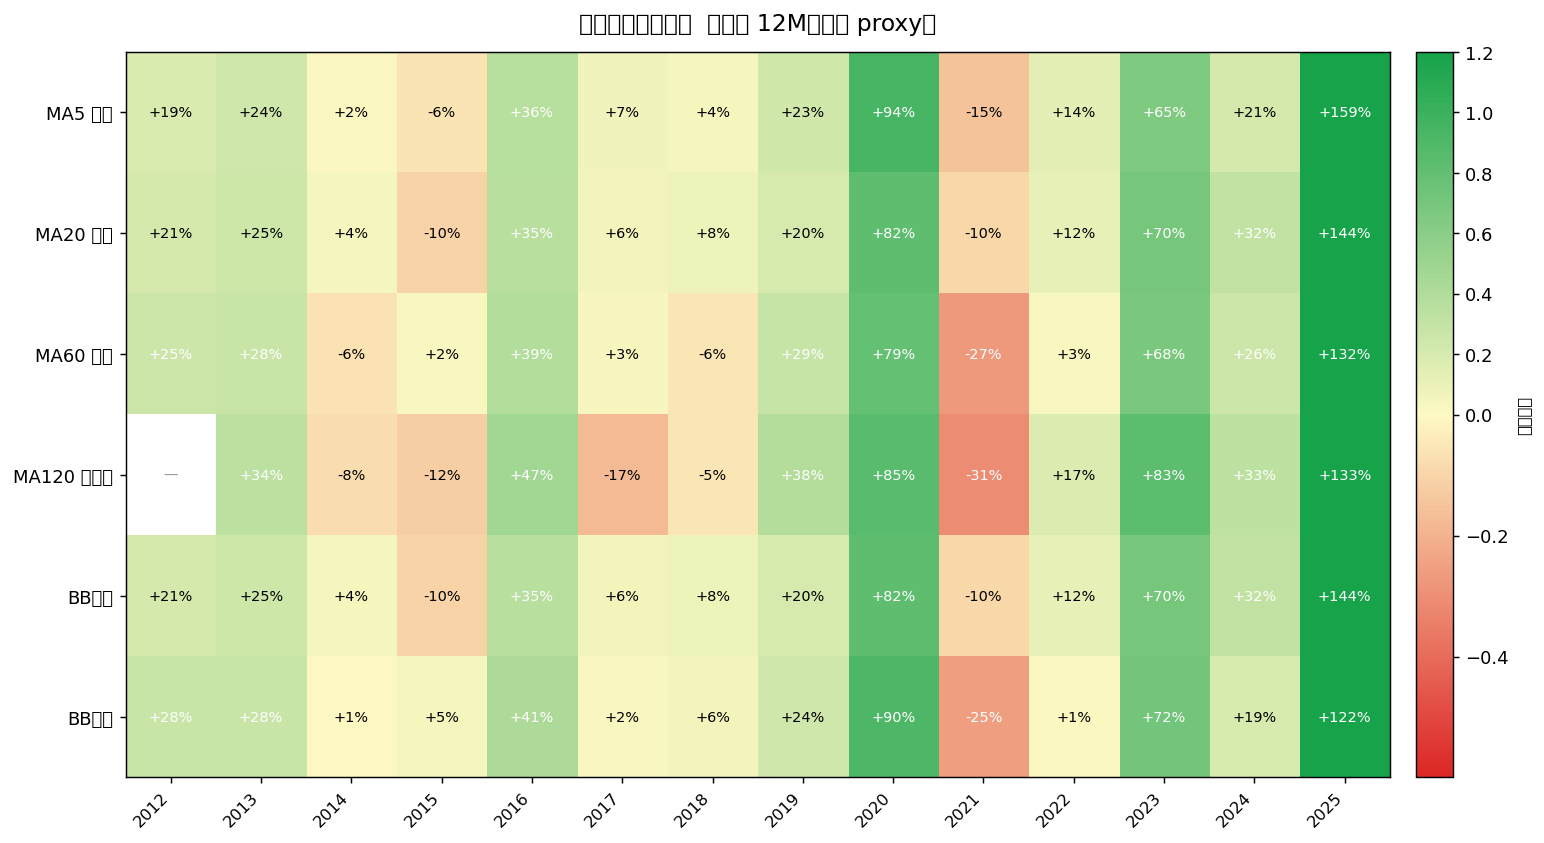
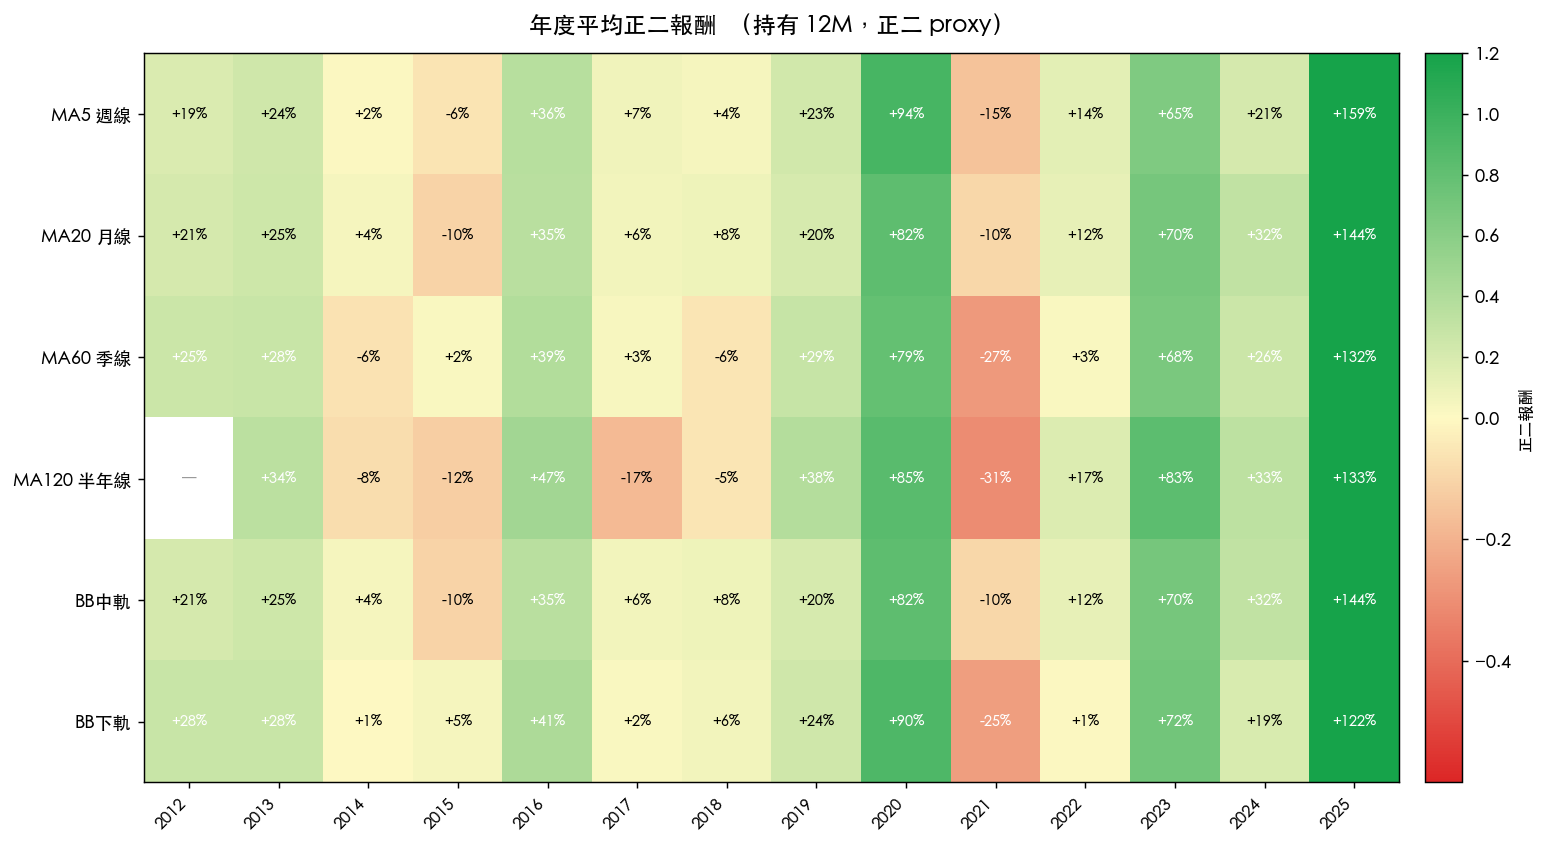
fix: 熱力圖中文亂碼 — 加入 Heiti TC 字體設定 + 更新 base64
- analyze_ma_bounce.py：加 matplotlib.rcParams font.family = Heiti TC
- 重新跑腳本，Y 軸 MA5週線/MA20月線/BB中軌/BB下軌 正常顯示
- 更新 index.html 內嵌 base64（報酬 + MDD 兩張熱力圖）
- 同步補全上一批 commit 的 index.html 網站地圖 + 對話記錄

Changed region(s): [[0.0311, 0.0, 0.9948, 0.987], [0.0, 0.5552, 0.0933, 0.586]]

diff --git a/tx/analyze_ma_bounce.py b/tx/analyze_ma_bounce.py
@@ -21,6 +21,7 @@ import pandas as pd
 import numpy as np
 import matplotlib
 matplotlib.use("Agg")
+matplotlib.rcParams['font.family'] = ['Heiti TC', 'Arial Unicode MS', 'sans-serif']
 import matplotlib.pyplot as plt
 import matplotlib.colors as mcolors
 from matplotlib.colors import LinearSegmentedColormap, TwoSlopeNorm